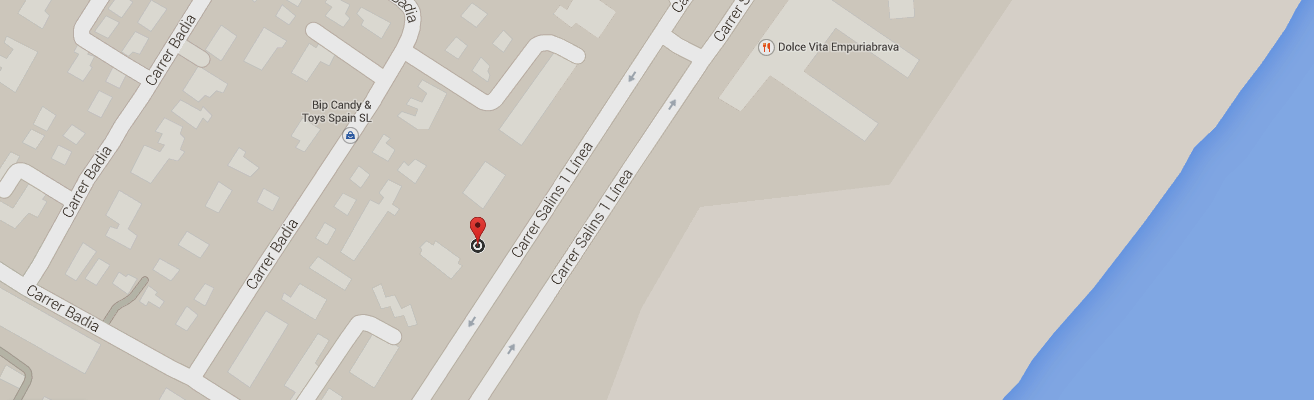
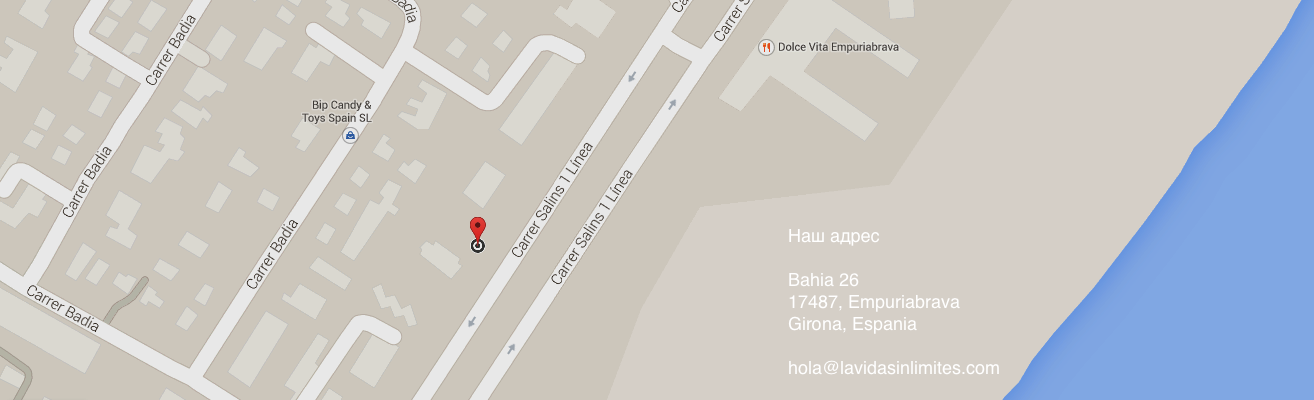
v20
banner w/address changed

Changed region(s): [[0.5928, 0.69, 0.7489, 0.84], [0.5928, 0.9, 0.7801, 0.93], [0.5928, 0.57, 0.6865, 0.63]]

diff --git a/index.html b/index.html
@@ -197,9 +197,7 @@
 
                 </div>
                 <div class="col-lg-6">
-                    <p>Наш адрес: <br><br>
-                    Bahia 26 <br>17487, Empuriabrava<br> Girona, Espania <br><br>
-                    hola@lavidasinlimites.com</p>
+                    <p><br><br><br><br><br><br></p>
                 </div>
             </div>
 

diff --git a/css/landing-page.css b/css/landing-page.css
@@ -117,6 +117,7 @@ h6 {
     max-width: 100%;
     max-height: 100%;
     position: relative;
+
 }
 
 .banner h2 {
@@ -134,7 +135,6 @@ h6 {
     float: right;
     margin-right: 40px;
     margin-top: 200px; 
-    position: relative;
 }
 
 .banner-social-buttons {
